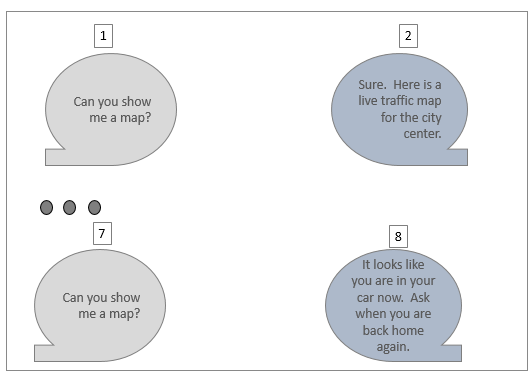
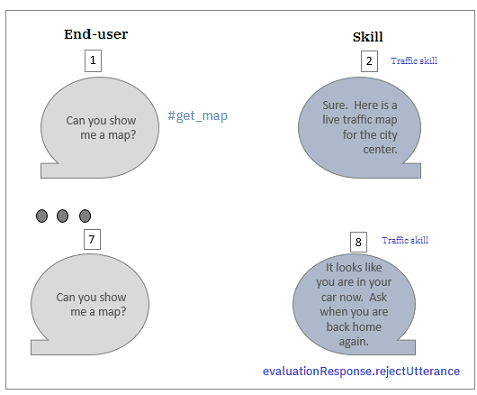
Skill features topic

diff --git a/_content/skill/skill_features.md b/_content/skill/skill_features.md
@@ -1,0 +1,117 @@
+---
+title: Enhancing the conversation with a skill
+weight: 40
+---
+Watson Assistant Solutions provides several features you can use to enhance the coversation between your end-users and your skill and to personalize the conversation.
+
+The examples in this topic are based on an assistant with three custom skills:
+- a traffic skill
+- an events skill
+- a fallback skill
+
+#### Setting an inconversation flag
+During a conversation, a skill may prompt for more information from the end-user to assist with routing.
+For example:
+
+_Figure 1 - setting the in conversation flag_
+![in conversation](../images/inconversation.png)
+In figure 1, the traffic skill asks the user which region the user wants the traffic news for.  The traffic skill sets an in conversation flag to notify the Watson Assistant Solutions routing core that it is in a conversation and that it is expecting a response. Otherwise, another skill, such the events skill, might return a higher confidence score and process the utterance.
+
+##### Sample code
+```
+//The 'in conversation' flag is set to True
+    'get-traffic': (request, response, context) => {
+		response.setInConversation(true);
+		response.deleteSkillSession(false).say('In the city center or suburbs')send();
+	},
+```
+
+#### Routing by intents or entities
+You can route the conversation using intents.  In your skill, you can define responses to give when specific intents are detected in the utterance.
+
+_Figure 2 - routing by intent_
+![in conversation](../images/routing_by_intent2.png)
+In figure 2, the `#get_roadworks` intent is detected and a list of roadworks is provided in the response.
+
+You can also route the conversation using entities.  For example:
+- You might route using on an entity that is provided in an utterance.
+- You might route on an entity if only an entity is provided in the utterance.
+
+_Figure 3 - routing by entities_
+![Routing by entitiest](../images/routing_by_entities2.PNG)
+In figure 3, the routing core routes based on a @trafficarea entity.  A different response is provided depending on whether the value is city center or suburbs.
+
+When routing by entities, in the `actions.js` file, actions in the entities section of the file are called.  For example:
+```
+// pre processing for entity based routing
+entities: (request, response, context) => {
+    handler.converse(request, response, context, converseCallback);
+}
+```
+
+#### Routing by skill context
+You can use context variables when you evaluate a request. For example:
+- You can specify that a condition is evaluated if the context variable expression you specify is true.
+- You can use context variables to determine what response to give.
+
+_Figure 4 - routing by skill context_
+![Routing by skill context](../images/skill_context_ex.PNG)
+In figure 4, the end-user asks about traffic diversions.  At step 2, the skill sets `$traffic_interest` variable to diversions.  Later in the conversation, when the user asks to see a map at step 7, the skill checks the `$traffic_interest` variable and responds with a map of roadworks and diversions.
+
+The skill context is saved by Watson Assistant Solutions and can be passed to a Watson Assistant (formerly Watson Conversation) workspace.
+
+#### Routing by session context
+Variables that are set in the session context are available to all skills.
+
+_Figure 5 - routing by session context_
+![Routing by session context](../images/skill_session_context_ex.png)
+In figure 5, at step 2, the traffic skill saves the region of interest, city center, to a `$region` variable in the session context. Later in the conversation at step 7, the user asks "Are there any outdoor concerts on there today".  The utterance is routed to a different skill this time.  The events skill returns the highest confidence score. The events skill uses the `$region` variable to determine what response to provide to the utterance.  The events skill returns a response based on the city center region.
+
+#### Routing by utterance context and rejecting utterances
+A skill can use the utterance context when it evaluates a request and when it determines a response. For example, an utterance might include a `$location` variable that is either set to `car` or `atHome`.
+
+In certain circumstances, you might want the skill to reject an utterance that it is equipped to handle.  For example, the traffic skill is designed to handle the `#get_map` intent. The goal of this intent is to display a live traffic map.  On evaluation, the skill returns a confidence level above its threshold value. However, you want the traffic skill to display a map if the user is at home and not if they are in their car.  You can design your skill to call the reject utterance function in the evaluation request.
+
+_Figure 6 - reject evaluation per utterance context_
+![Rejecting an utterance based on the utterance context](../images/reject_utterance2.png)
+
+In figure 6, when `$location` in utterance context is set to at home, the evaluation request is processed. Later in the conversation, when `$location` in utterance context is set to _in the car_, the evaluation request is rejected.
+**Note**: The `$location` variable is set by the app that is running in the car or the house, that is, the app that is sending the request.
+
+##### Sample code
+```
+//Example of rejecting an utterance evaluation request based on utterance context
+evaluation: (request, evaluationResponse, context) => {
+if(context.utterance.location && context.utterance.location !== 'car') {
+	evaluationResponse.rejectUtterance().send();
+}
+else {
+	handler.evaluateRequest(request, evaluationResponse, context, evaluationCallback);
+},
+```
+
+#### Handling unmatched utterances with fallback skills
+No matter how broad a knowledge base your assistant has, cicumstances will arise that your skills do not have the knoweldge to handle.  In your responses, you can provide a more elegant response than "I'm not trained for this".
+
+_Figure 7 - routing to a fallback skill_
+![Routing to a fallback skill](../images/fallback.png)
+In figure 7, at step 2, the user is reminded of the type of questions to ask.
+
+Define fallback skills to capture these circumstances. Design your fallback skills to  capture most utterances and to return a high confidence score for any utterance.
+
+To configure a fallback skill, complete these steps:
+1.  Create a fallback skill, add fallback intents to the skill, and associate actions with these intents. <br>**Important**: Create fallback intents that are broad enough to capture most utterances and are likely to return a high confidence score for any utterance.
+3.  Add the skill to a skill set and tag it as a fallback skill.  For example, in skillsData, set:
+```
+{
+ "fallback": true,
+ "skillNames": [
+   "place-skill-name-here"
+ ]
+}
+```
+A fallback skill is created.
+> **What to do next?**<br/>
+Complete the following tutorials to help you get started with creating your assistant:
+* [Tutorial - create a skill using the  regexp nlu]({{site.baseurl}}/skill/create_custom_skill).
+* [Tutorial - create a skill using IBM Watson Assistant nlu ]({{site.baseurl}}/further-topics/using-wcs).
